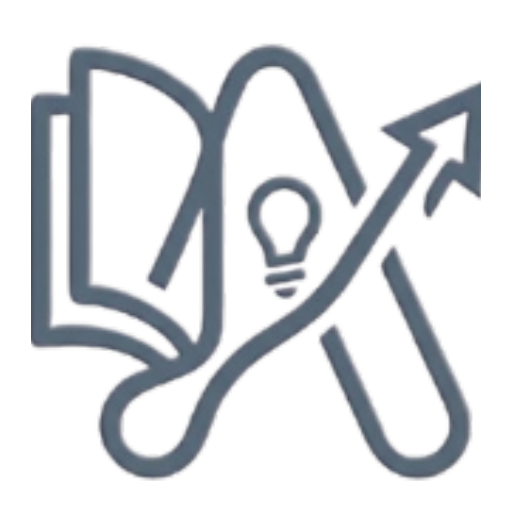
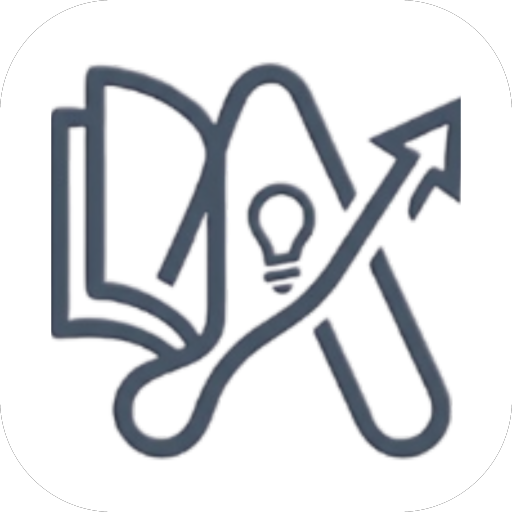
chore: update branding assets and cache busters
Refresh favicon and app icons, and add version query parameters to static asset links to ensure proper cache invalidation across the application.

Changed region(s): [[0.0625, 0.0625, 0.9375, 0.9375]]

diff --git a/index.html b/index.html
@@ -12,8 +12,8 @@
     <meta name="twitter:image" content="/icon-512.png">
     <meta name="google-site-verification" content="Ob_ohKErmz3FY-PLXlhVlvhEfIfz9cXYxspdz36I92c" />
     
-    <!-- Favicon Oficial & PWA / Android / iOS App Icons -->
-    <link rel="manifest" href="/manifest.json">
+    <!-- Favicon Oficial & PWA / Android / iOS App Icons (mateix logo del desplegable i pantalla de benvinguda) -->
+    <link rel="manifest" href="/manifest.json?v=20261116b">
     <meta name="theme-color" content="#2563eb" media="(prefers-color-scheme: light)">
     <meta name="theme-color" content="#09090b" media="(prefers-color-scheme: dark)">
     <meta name="mobile-web-app-capable" content="yes">
@@ -21,14 +21,14 @@
     <meta name="apple-mobile-web-app-status-bar-style" content="black-translucent">
     <meta name="apple-mobile-web-app-title" content="Aliat">
     <meta name="application-name" content="Aliat Intel·ligent">
-    <link rel="icon" type="image/x-icon" href="/favicon.ico">
-    <link rel="shortcut icon" href="/favicon.ico">
-    <link rel="icon" type="image/png" sizes="16x16" href="/favicon-16x16.png">
-    <link rel="icon" type="image/png" sizes="32x32" href="/favicon-32x32.png">
-    <link rel="icon" type="image/png" sizes="64x64" href="/favicon.png">
-    <link rel="icon" type="image/png" sizes="192x192" href="/icon-192.png">
-    <link rel="icon" type="image/png" sizes="512x512" href="/icon-512.png">
-    <link rel="apple-touch-icon" sizes="180x180" href="/apple-touch-icon.png">
+    <link rel="icon" type="image/png" href="/favicon.png?v=20261116b">
+    <link rel="shortcut icon" type="image/png" href="/favicon.png?v=20261116b">
+    <link rel="icon" type="image/png" sizes="32x32" href="/favicon-32x32.png?v=20261116b">
+    <link rel="icon" type="image/png" sizes="64x64" href="/favicon.png?v=20261116b">
+    <link rel="icon" type="image/png" sizes="160x160" href="/assets/aistudio/logoOFI_048f1d3b.png">
+    <link rel="icon" type="image/png" sizes="192x192" href="/icon-192.png?v=20261116b">
+    <link rel="icon" type="image/png" sizes="512x512" href="/icon-512.png?v=20261116b">
+    <link rel="apple-touch-icon" sizes="180x180" href="/apple-touch-icon.png?v=20261116b">
     <link rel="apple-touch-icon" href="/assets/aistudio/logoOFI_048f1d3b.png">
     
     <link rel="preconnect" href="https://fonts.googleapis.com">
@@ -22706,10 +22706,19 @@ ${parsedBody}
 
             if (typeof Swal !== 'undefined') {
                 Swal.fire({
-                    title: "📲 Instal·la Aliat com a App Android",
+                    title: "📲 Instal·la Aliat com a App",
                     html: `
                         <div class="text-left space-y-3 py-1 text-xs text-zinc-700 dark:text-zinc-200">
-                            <p class="font-medium">Pots instal·lar Aliat Intel·ligent directament al teu telèfon Android sense ocupar memòria:</p>
+                            <div class="flex items-center gap-3 p-3 rounded-2xl bg-zinc-50 dark:bg-zinc-900 border border-zinc-200 dark:border-zinc-800">
+                                <div class="w-12 h-12 rounded-2xl bg-white dark:bg-zinc-800 border border-zinc-200 dark:border-zinc-700 p-2 flex items-center justify-center shrink-0 shadow-xs">
+                                    <img src="/assets/aistudio/logoOFI_048f1d3b.png" onerror="if(!this.dataset.r){this.dataset.r=1;this.src='/public/assets/aistudio/logoOFI_048f1d3b.png';}" alt="Logo Aliat" class="w-full h-full object-contain dark:brightness-[1.85] dark:contrast-125">
+                                </div>
+                                <div>
+                                    <div class="font-extrabold text-sm text-zinc-900 dark:text-white">Aliat Intel·ligent</div>
+                                    <div class="text-[11px] text-zinc-500 dark:text-zinc-400">Aplicació Web (PWA) amb el logo oficial d'Aliat</div>
+                                </div>
+                            </div>
+                            <p class="font-medium">Pots instal·lar Aliat Intel·ligent directament al teu telèfon o escriptori sense ocupar memòria:</p>
                             <div class="bg-blue-50/80 dark:bg-blue-950/50 p-3 rounded-2xl border border-blue-200/80 dark:border-blue-900/60 space-y-2.5">
                                 <div class="flex items-start gap-2.5">
                                     <span class="font-bold text-blue-600 bg-white dark:bg-zinc-800 w-5 h-5 rounded-full flex items-center justify-center shrink-0 shadow-2xs text-[11px]">1</span>

diff --git a/condiciones.html b/condiciones.html
@@ -5,13 +5,14 @@
     <meta name="viewport" content="width=device-width, initial-scale=1.0">
     <title>Condicions d'Ús / Condiciones de Uso · Aliat Intel·ligent</title>
     <meta name="description" content="Condicions d'Ús i Termes del Servei d'Aliat Intel·ligent en català i espanyol: modalitats d'accés, tutoria amb IA, integració amb Google Workspace i ús responsable.">
-    <link rel="manifest" href="/manifest.json">
-    <link rel="icon" type="image/x-icon" href="/favicon.ico">
-    <link rel="shortcut icon" href="/favicon.ico">
-    <link rel="icon" type="image/png" sizes="32x32" href="/favicon-32x32.png">
-    <link rel="icon" type="image/png" sizes="16x16" href="/favicon-16x16.png">
-    <link rel="icon" type="image/png" sizes="192x192" href="/icon-192.png">
-    <link rel="apple-touch-icon" sizes="180x180" href="/apple-touch-icon.png">
+    <link rel="manifest" href="/manifest.json?v=20261116b">
+    <link rel="icon" type="image/png" href="/favicon.png?v=20261116b">
+    <link rel="shortcut icon" type="image/png" href="/favicon.png?v=20261116b">
+    <link rel="icon" type="image/png" sizes="32x32" href="/favicon-32x32.png?v=20261116b">
+    <link rel="icon" type="image/png" sizes="64x64" href="/favicon.png?v=20261116b">
+    <link rel="icon" type="image/png" sizes="160x160" href="/assets/aistudio/logoOFI_048f1d3b.png">
+    <link rel="icon" type="image/png" sizes="192x192" href="/icon-192.png?v=20261116b">
+    <link rel="apple-touch-icon" sizes="180x180" href="/apple-touch-icon.png?v=20261116b">
     <link rel="preconnect" href="https://fonts.googleapis.com">
     <link rel="preconnect" href="https://fonts.gstatic.com" crossorigin>
     <link href="https://fonts.googleapis.com/css2?family=Plus+Jakarta+Sans:wght@400;500;600;700;800&display=swap" rel="stylesheet">

diff --git a/cookies.html b/cookies.html
@@ -5,13 +5,14 @@
     <meta name="viewport" content="width=device-width, initial-scale=1.0">
     <title>Política de Cookies, Emmagatzematge i Dades d'IA · Aliat Intel·ligent</title>
     <meta name="description" content="Política legal de Cookies, localStorage i tractament de dades d'Intel·ligència Artificial d'Aliat Intel·ligent segons el RGPD, LOPDGDD i LSSI-CE.">
-    <link rel="manifest" href="/manifest.json">
-    <link rel="icon" type="image/x-icon" href="/favicon.ico">
-    <link rel="shortcut icon" href="/favicon.ico">
-    <link rel="icon" type="image/png" sizes="32x32" href="/favicon-32x32.png">
-    <link rel="icon" type="image/png" sizes="16x16" href="/favicon-16x16.png">
-    <link rel="icon" type="image/png" sizes="192x192" href="/icon-192.png">
-    <link rel="apple-touch-icon" sizes="180x180" href="/apple-touch-icon.png">
+    <link rel="manifest" href="/manifest.json?v=20261116b">
+    <link rel="icon" type="image/png" href="/favicon.png?v=20261116b">
+    <link rel="shortcut icon" type="image/png" href="/favicon.png?v=20261116b">
+    <link rel="icon" type="image/png" sizes="32x32" href="/favicon-32x32.png?v=20261116b">
+    <link rel="icon" type="image/png" sizes="64x64" href="/favicon.png?v=20261116b">
+    <link rel="icon" type="image/png" sizes="160x160" href="/assets/aistudio/logoOFI_048f1d3b.png">
+    <link rel="icon" type="image/png" sizes="192x192" href="/icon-192.png?v=20261116b">
+    <link rel="apple-touch-icon" sizes="180x180" href="/apple-touch-icon.png?v=20261116b">
     <link rel="preconnect" href="https://fonts.googleapis.com">
     <link rel="preconnect" href="https://fonts.gstatic.com" crossorigin>
     <link href="https://fonts.googleapis.com/css2?family=Plus+Jakarta+Sans:wght@400;500;600;700;800&display=swap" rel="stylesheet">

diff --git a/privacidad.html b/privacidad.html
@@ -5,13 +5,14 @@
     <meta name="viewport" content="width=device-width, initial-scale=1.0">
     <title>Política de Privadesa / Privacidad · Aliat Intel·ligent</title>
     <meta name="description" content="Política de privadesa d'Aliat Intel·ligent en català i espanyol: quines dades recollim, per a què les utilitzem i com les protegim.">
-    <link rel="manifest" href="/manifest.json">
-    <link rel="icon" type="image/x-icon" href="/favicon.ico">
-    <link rel="shortcut icon" href="/favicon.ico">
-    <link rel="icon" type="image/png" sizes="32x32" href="/favicon-32x32.png">
-    <link rel="icon" type="image/png" sizes="16x16" href="/favicon-16x16.png">
-    <link rel="icon" type="image/png" sizes="192x192" href="/icon-192.png">
-    <link rel="apple-touch-icon" sizes="180x180" href="/apple-touch-icon.png">
+    <link rel="manifest" href="/manifest.json?v=20261116b">
+    <link rel="icon" type="image/png" href="/favicon.png?v=20261116b">
+    <link rel="shortcut icon" type="image/png" href="/favicon.png?v=20261116b">
+    <link rel="icon" type="image/png" sizes="32x32" href="/favicon-32x32.png?v=20261116b">
+    <link rel="icon" type="image/png" sizes="64x64" href="/favicon.png?v=20261116b">
+    <link rel="icon" type="image/png" sizes="160x160" href="/assets/aistudio/logoOFI_048f1d3b.png">
+    <link rel="icon" type="image/png" sizes="192x192" href="/icon-192.png?v=20261116b">
+    <link rel="apple-touch-icon" sizes="180x180" href="/apple-touch-icon.png?v=20261116b">
     <link rel="preconnect" href="https://fonts.googleapis.com">
     <link rel="preconnect" href="https://fonts.gstatic.com" crossorigin>
     <link href="https://fonts.googleapis.com/css2?family=Plus+Jakarta+Sans:wght@400;500;600;700;800&display=swap" rel="stylesheet">
